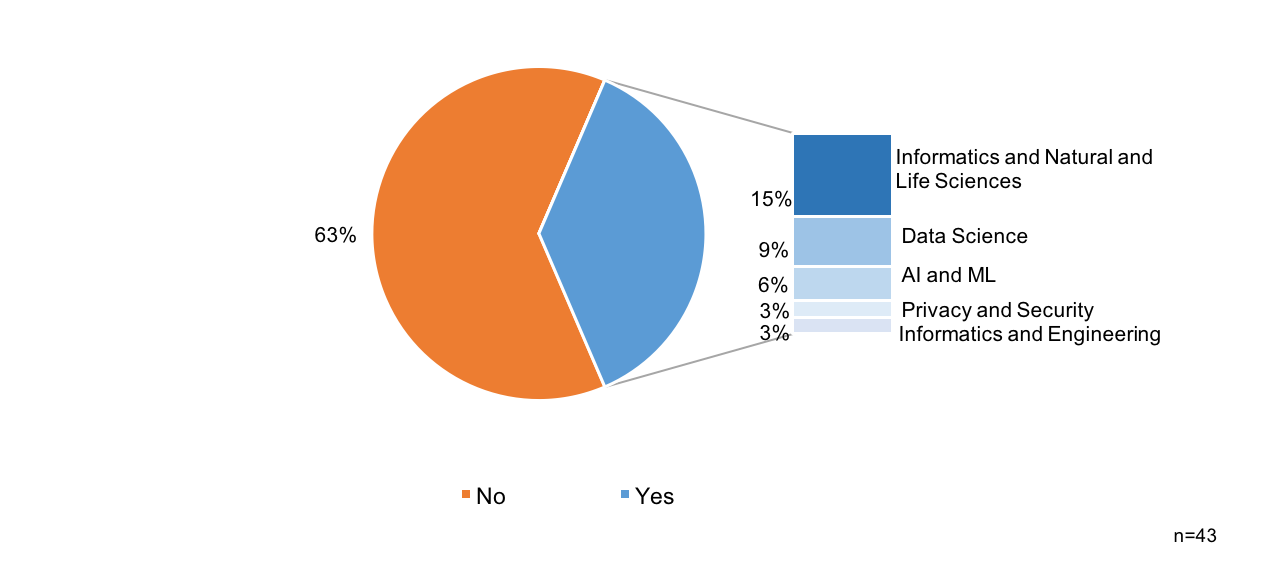
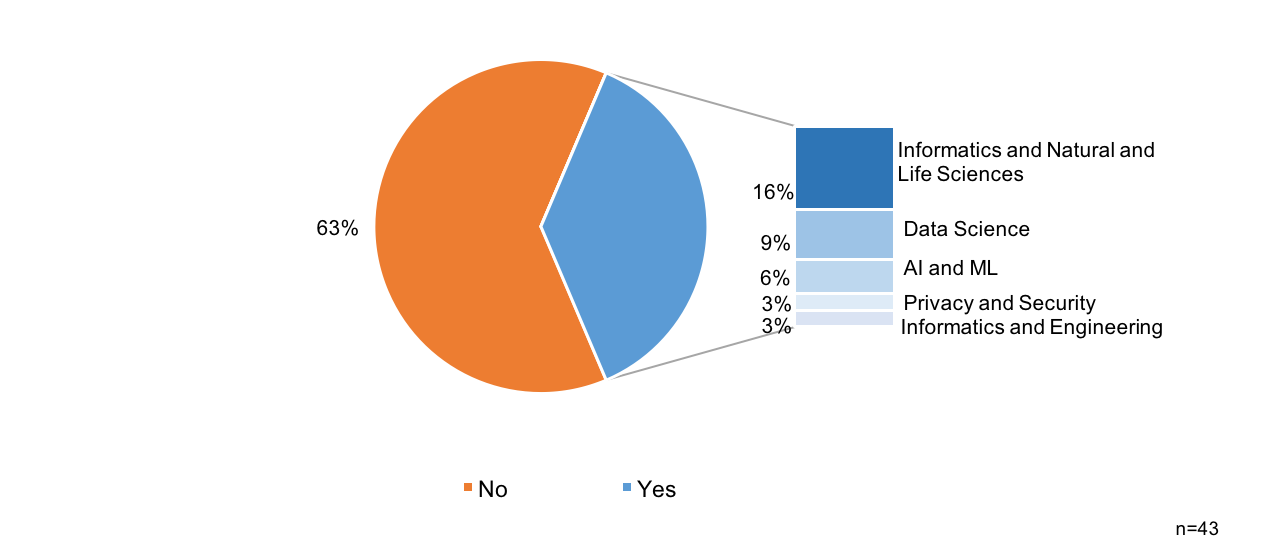
updated with Svetlana's suggestions

diff --git a/structure.tex b/structure.tex
@@ -8,11 +8,11 @@ Creating actual rather than virtual interdisciplinary centres is likely to impro
 \begin{figure}[h]
 \centering
 \includegraphics[width = \linewidth]{charts/5a.png}
-\caption{What are the interdisciplinary centres?}
+\caption{Does your university set up centres for interdisciplinary work?}
 \label{sect5:centres}
 \end{figure}
 
-28\% of respondents say their university does not have real interdisciplinary centres (see Figure~\ref{sect5:centres}). Of those who commented on why the lack of centres only one actually replied that their management was averse to setting up additional administrative structures. The rest just said there were informal groupings, but nothing officially supported. 46\% of all of the interdisciplinary centres are set up primarily for research and only 18\% for teaching. The rest are primarily involved with industry.
+28\% of respondents say their university does not have real interdisciplinary centres (see Figure~\ref{sect5:centres}). Of those who commented on why the lack of centres only one actually replied that their management was averse to setting up additional administrative structures. The rest just said there were informal groupings, but nothing officially supported. 45\% of all of the interdisciplinary centres are set up primarily for research and only 18\% for teaching. The rest are primarily involved with industry.
 
 There are a broad range of centres in the different universities -- clearly what expertise is in a university and what the structure of the different departments/schools/faculties impacts which centres are set up in addition to the existing primary structures. The most common centres mentioned with a significant Informatics component are in Computational Science, Data Science,  Life Science, Digital Society, Energy, and Security.   There were also more than one university with the following centres: Biomedical Engineering, Environment/Climate,  Medical Imaging, and  Complex Systems. There are a wide range of centres which only mentioned at one university: Health,  FinTech, Digital Humanities, Robotic Surgery, Cognitive Ageing, Bioinformatics, and Geoinformatics, 
  
@@ -78,7 +78,7 @@ A quarter of respondents report on plans to set up new centres (see Figure~\ref{
 \begin{figure}[h]
 \centering
 \includegraphics[width = \linewidth]{charts/5g.png}
-\caption{What are the drivers for new centres?}
+\caption{What are the drivers and pressures for new centres?}
 \label{sect5:drivers}
 \end{figure}
                                                                                                                     
@@ -91,7 +91,7 @@ The other respondents addressed external drivers and pressures. The most signifi
 \begin{figure}[h]
 \centering
 \includegraphics[width = \linewidth]{charts/5h.png}
-\caption{How much support is provided for interdisciplinary work?}
+\caption{Is any support provided for interdisciplinary work?}
 \label{sect5:support}
 \end{figure}
 
@@ -101,7 +101,7 @@ Respondents were evenly split over this question (see Figure~\ref{sect5:support}
 \begin{figure}[h]
 \centering
 \includegraphics[width = \linewidth]{charts/5i.png}
-\caption{Interdisciplinary hirings}
+\caption{Are there any centres for interdisciplinary work created from strategic initiatives?}
 \label{sect5:strategy}
 \end{figure}
 
@@ -110,7 +110,7 @@ More than half of the respondents reported on centres created from strategic ini
 \subsection{Official strategic vision}
 \begin{figure}[h]
 \centering
-\includegraphics[width = \linewidth]{charts/5i.png}
+\includegraphics[width = \linewidth]{charts/5j.png}
 \caption{Is there an official strategy to widen the role of Informatics?}
 \label{sect5:official}
 \end{figure}

diff --git a/appendix.tex b/appendix.tex
@@ -1,4 +1,4 @@
-\newpage
+\newpage
 \appendix
 \section{Survey: The Wide Role of Informatics at Universities}\label{apx:survey}
 \begin{enumerate}
@@ -265,10 +265,6 @@ BSc & Business Informatics  &  Austria, Czech, Germany \\
 \hline
 BSc & Informatics and Management    & Italy,  UK \\
 \hline
-BSc & bioinformatics,  & Czech, Denmark, Italy, Switzerland\\
-\hline
-BSc & Geoinformatics   & Italy\\
-\hline
 BSc & Informatics and Mathematics   & Netherlands, Spain, UK\\
 \hline
 BSc & Informatics and Statistics   & Spain\\
@@ -279,35 +275,39 @@ BSc & Law and Informatics   &  Czech \\
 \hline
 BSc & Social sciences and Informatics   & Czech \\
 \hline
-BSc & Technical Communication    & Germany, Denmark\\
-\hline
-BSc & Computational Engineering   & Germany\\
-\hline
-BSc & Cybernetic  &  Germany\\
-\hline
-BSc & Mechatronic   & Germany\\
-\hline
-BSc & INFOTech   & Germany\\
-\hline
 BSc & Information Science /Library science   & Germany\\
-\hline
-BSc & Data Science   & Italy, Spain\\
-\hline
-BSc & ICT and Media   & Italy\\
-\hline
-BSc & Data Science and Entrepreneurship   & Netherlands\\
-\hline
-BSc & Data Science and Society   & Netherlands\\
-\hline
-BSc & Cognitive Science and Art. Intellig.   & Netherlands\\
 \hline
 BSc & Informatics Health  &Spain\\
 \hline
 BSc & Informatics and  Engineering   & Spain,  UK\\
 \hline
+BSc, MSc & Bioinformatics  & Czech, Denmark, Italy, Switzerland\\
+\hline
+BSc, MSc & Data Science   & Italy, Spain\\
+\hline
+BSc, MSc & Technical Communication    & Germany, Denmark\\
+\hline
+BSc, MSc & Computational Engineering   & Germany\\
+\hline
+MSc & ICT and Media   & Italy\\
+\hline
+MSc & Data Science and Entrepreneurship   & Netherlands\\
+\hline
+MSc & Data Science and Society   & Netherlands\\
+\hline
+MSc & Cognitive Science and Art. Intellig.   & Netherlands\\
+\hline
+MSc & Geoinformatics   & Italy\\
+\hline
 MSc & Data mining with political Sc.  &  Italy\\
 \hline
 MSc&  Informatics and Psychology   &  Italy\\
+\hline
+MSc & Cybernetics  &  Germany\\
+\hline
+MSc & Mechatronics   & Germany\\
+\hline
+MSc & INFOTech   & Germany\\
 \hline
 MSc & Comput. Sc. and Engineering & Switzerland\\
 \hline

diff --git a/data.tex b/data.tex
@@ -10,8 +10,8 @@ Data Science is located in about 46\% of cases at the Informatics departments (s
 
 \begin{figure}[h]
 \centering
-\includegraphics[width = \linewidth]{charts/4a.jpg}
-\caption{Data science is part of what discipline?}
+\includegraphics[width = \linewidth]{charts/4a.png}
+\caption{Which department is seen to own data science?}
 \label{sect4:discipline}
 \end{figure}
 
@@ -21,7 +21,7 @@ A large majority of 61\% of respondents indicated that the rise of Data Science 
 
 \begin{figure}[h]
 \centering
-\includegraphics[width = \linewidth]{charts/4b.jpg}
+\includegraphics[width = \linewidth]{charts/4b.png}
 \caption{Has the perception of Informatics changed with the rise of Data Science?}
 \label{sect4:}
 \end{figure}

diff --git a/main.tex b/main.tex
@@ -27,13 +27,13 @@ To better understand the state of affairs on this topic and discover best practi
 \centering
 \begin{subfigure}{.5\textwidth}
   \centering
-  \includegraphics[width=\linewidth]{charts/map.jpg}
+  \includegraphics[width=\linewidth]{charts/map.png}
   \caption{Countries}
   \label{fig:map}
 \end{subfigure}%
 \begin{subfigure}{.5\textwidth}
   \centering
-  \includegraphics[width=1.5\linewidth]{charts/regions.jpg}
+  \includegraphics[width=1.5\linewidth]{charts/where.png}
    \caption{Regions}
   \label{fig:members}
 \end{subfigure}
@@ -54,3 +54,4 @@ Although how Informatics (also called Computer Science or Computing) should posi
 \input{appendix.tex}
 
 \end{document}  
+
